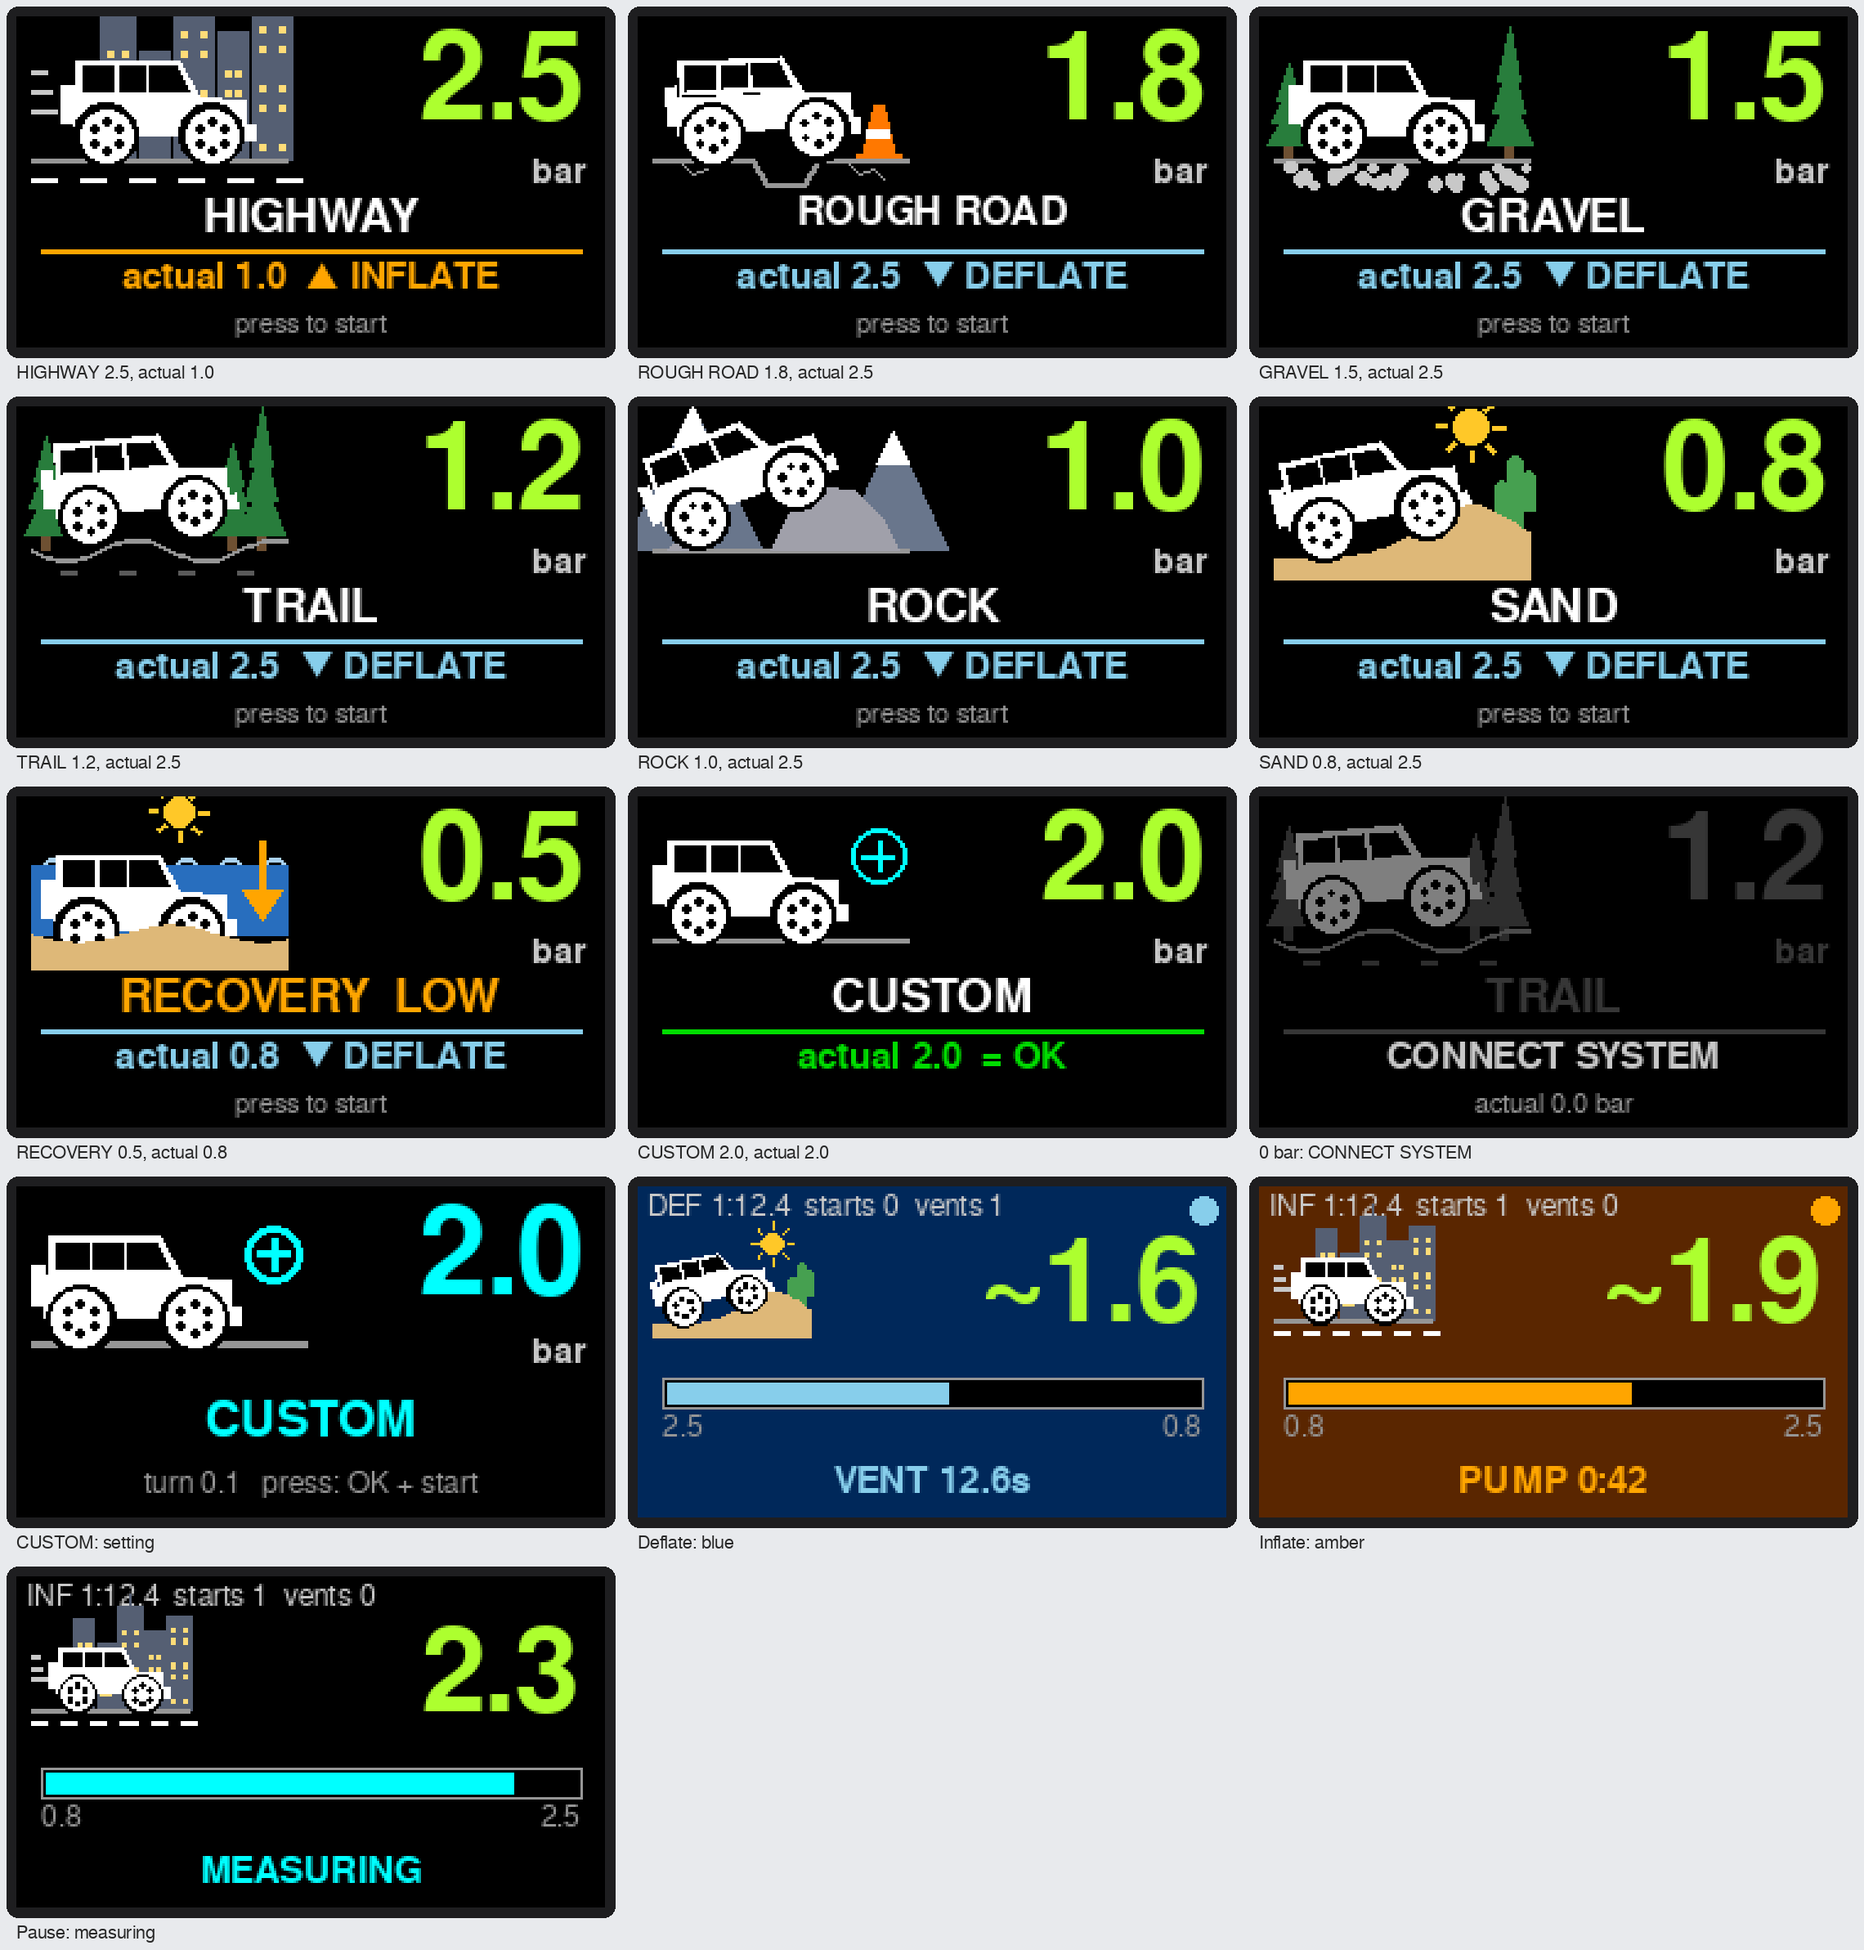
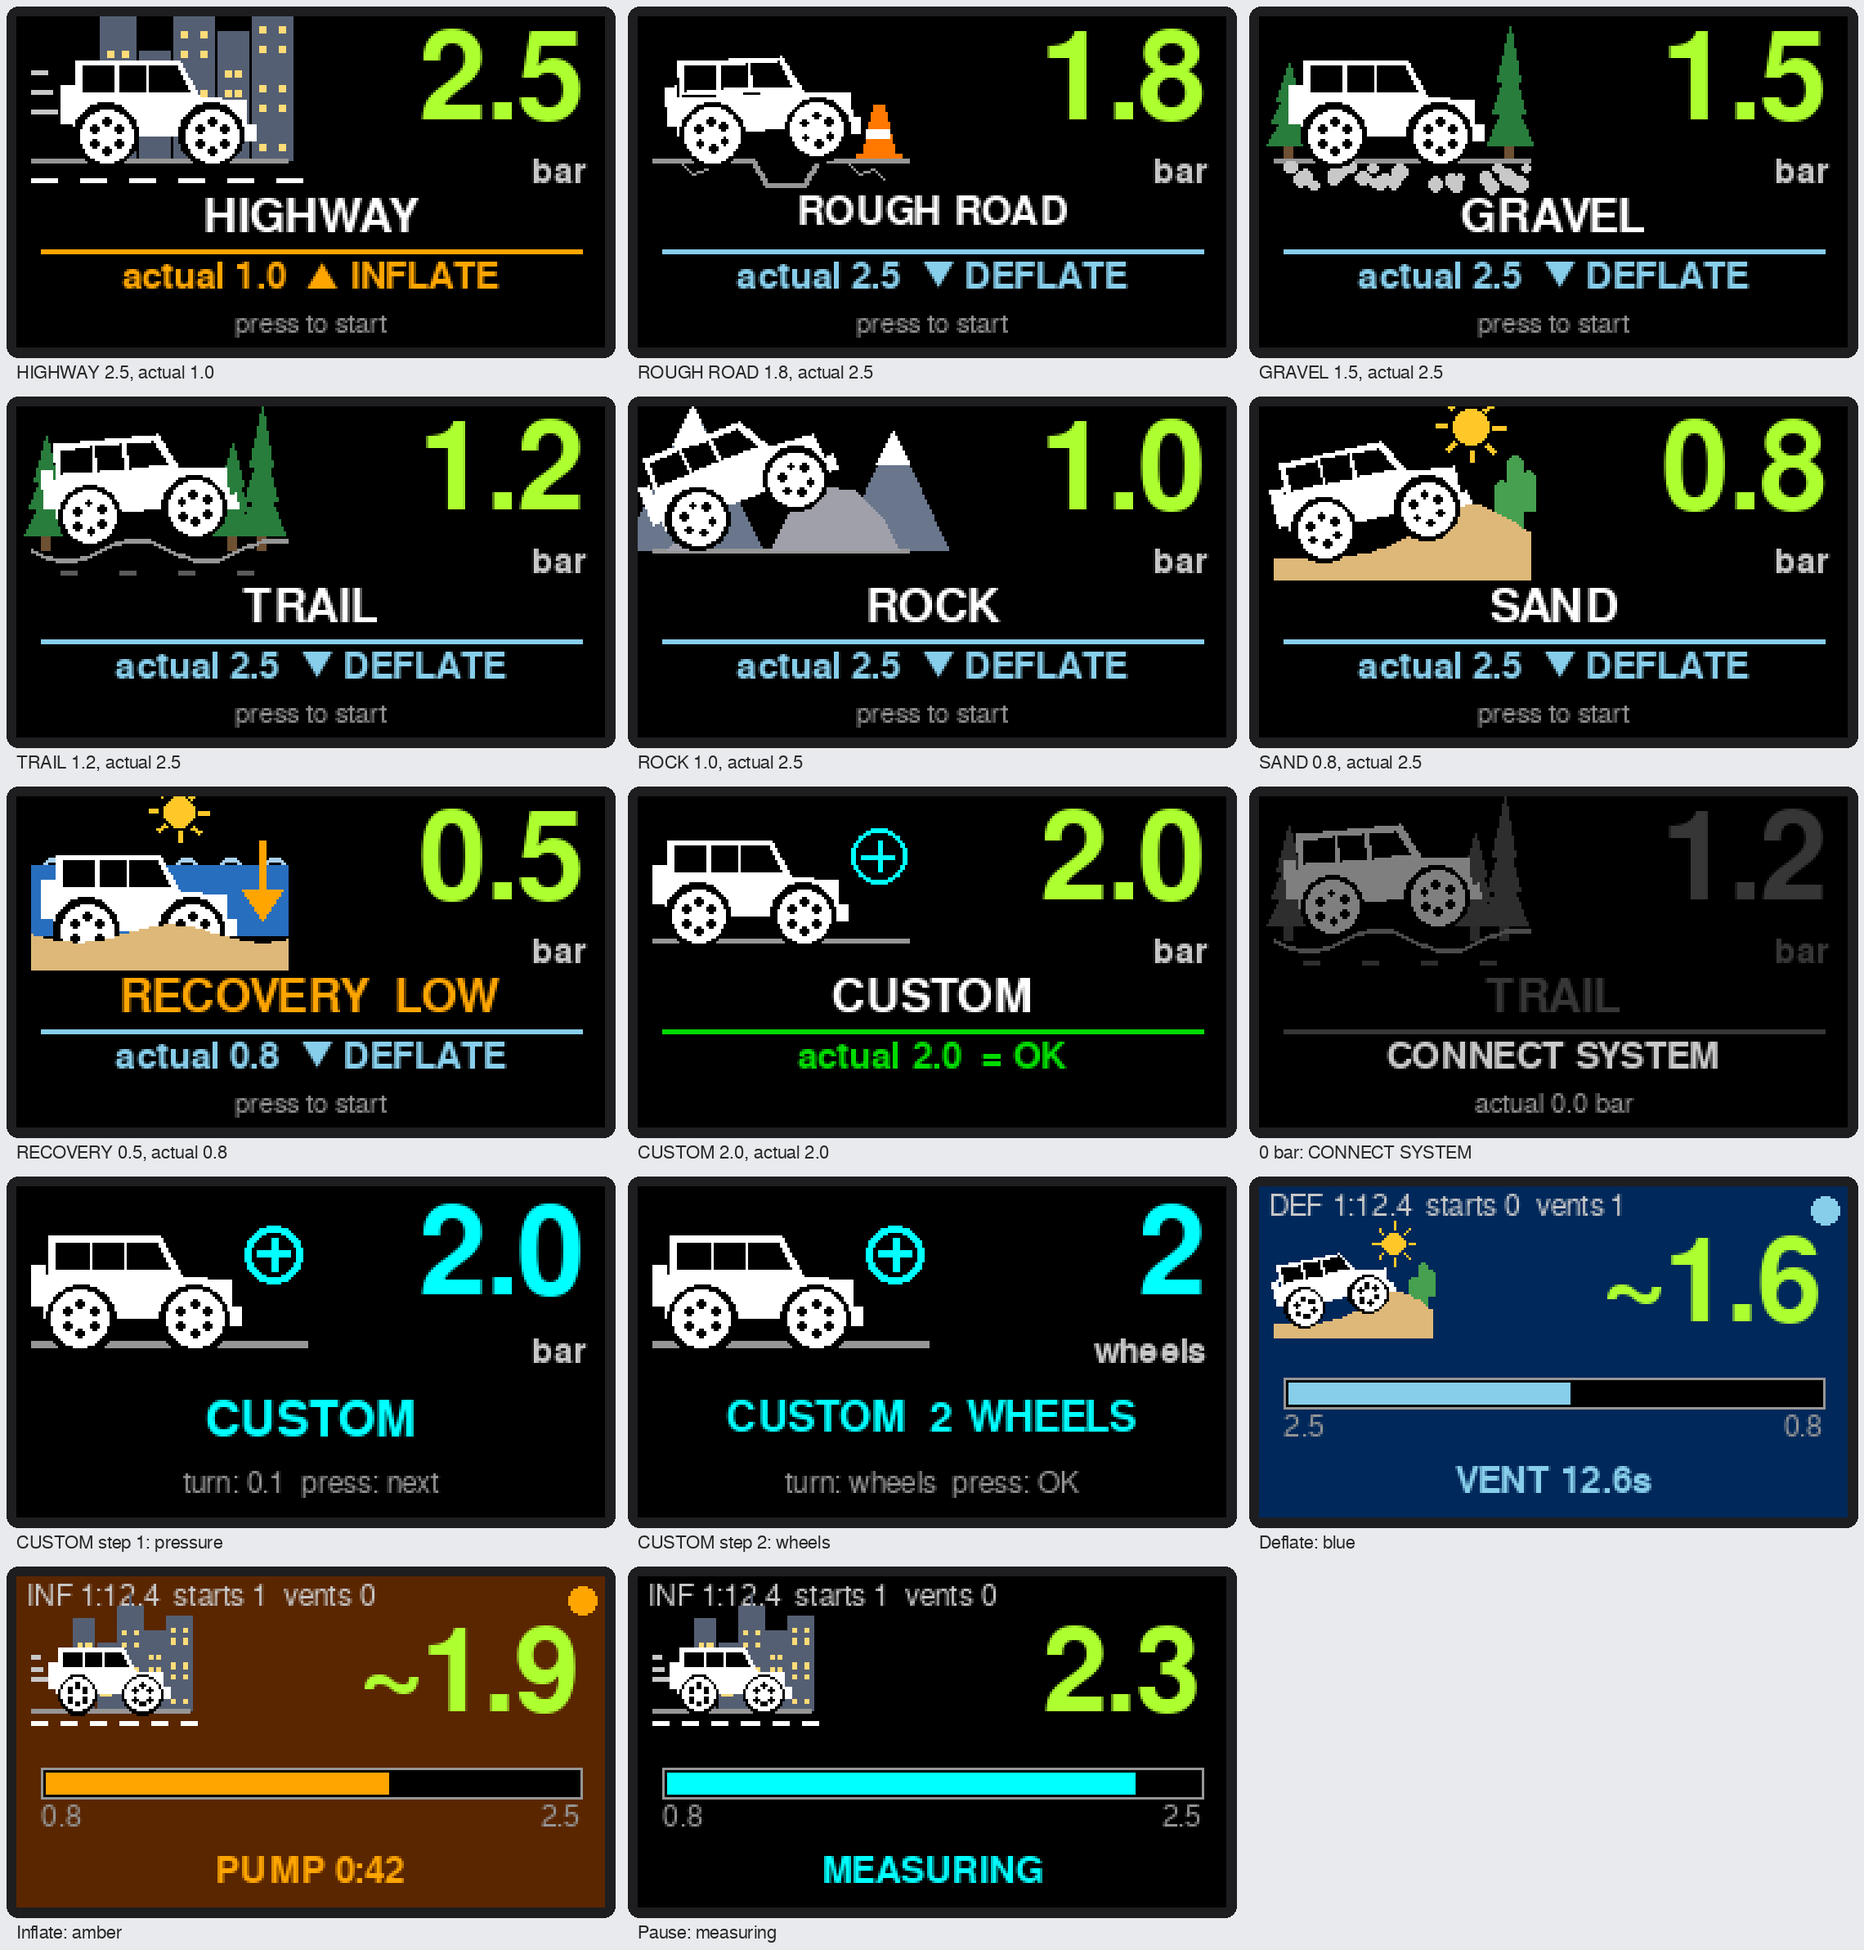
Screens: CUSTOM wheel step in mock-ups, menu scheme updated, storyboard page; stale run-fill sheet removed
Claude-Session: https://claude.ai/code/session_018z5LvCZ9NFya6WZW91qW8w

Changed region(s): [[0.0, 0.5895, 0.9965, 1.0], [0.0934, 0.7447, 0.2491, 0.7757]]

diff --git a/docs/screen/storyboard.html b/docs/screen/storyboard.html
@@ -1,0 +1,45 @@
+<title>DinMeter Screen Storyboard</title>
+<meta name="claude:viewport-fit-sides" content="cover">
+<link rel="stylesheet" href="https://fonts.googleapis.com/css2?family=Barlow+Condensed:wght@600;700&family=Inter:wght@400;500;600&display=swap">
+<style>
+:root{--bg:#eef0ec;--fg:#1d2321;--muted:#5d6763;--line:#cfd5d1;--card:#fff;--accent:#e8613a}
+@media (prefers-color-scheme: dark){:root:not([data-theme="light"]){--bg:#141816;--fg:#e6ebe8;--muted:#98a39e;--line:#2c3330;--card:#1c211f;--accent:#ff7a50;color-scheme:dark}}
+:root[data-theme="dark"]{--bg:#141816;--fg:#e6ebe8;--muted:#98a39e;--line:#2c3330;--card:#1c211f;--accent:#ff7a50;color-scheme:dark}
+body{background:var(--bg);color:var(--fg);font:15px/1.5 Inter,system-ui,sans-serif}
+.wrap{max-width:1180px;margin:0 auto;padding-block:28px 48px;padding-left:max(16px,env(safe-area-inset-left,0px));padding-right:max(16px,env(safe-area-inset-right,0px))}
+h1{font:700 clamp(30px,5vw,44px)/1.05 "Barlow Condensed",system-ui,sans-serif;margin:0 0 6px}
+h2{font:700 26px/1.1 "Barlow Condensed",system-ui,sans-serif;margin:34px 0 6px;text-wrap:balance}
+p{max-width:72ch;margin:0 0 14px;color:var(--muted)}
+figure{margin:0 0 10px;background:var(--card);border:1px solid var(--line);border-radius:10px;padding:10px}
+figure img{display:block;width:100%;height:auto;border-radius:6px}
+figcaption{font-size:13px;color:var(--muted);margin-top:6px}
+.two{display:grid;grid-template-columns:repeat(auto-fit,minmax(280px,1fr));gap:14px}
+.two>*{min-width:0}
+b{color:var(--fg)}
+</style>
+<div class="wrap">
+<h1>DinMeter: экраны</h1>
+<p>Состояние на 19.11.2026, все прошивки. Макеты нарисованы скриптом в масштабе экрана 240×135; на настоящем DinMeter ещё не проверены.</p>
+
+<h2>Заставка</h2>
+<p>1,6 с после включения, нажатие пропускает. VOLKOV AIR, машинка переезжает кочки.</p>
+<div class="two">
+<figure><img src="splash.gif" alt="Заставка VOLKOV AIR, анимация"><figcaption>анимация</figcaption></figure>
+<figure><img src="splash_frames.png" alt="Три кадра заставки"><figcaption>кадры</figcaption></figure>
+</div>
+
+<h2>Режимы, работа, CUSTOM</h2>
+<p>Поворот ручки листает режимы. Строка <b>actual</b> показывает текущее давление и что будет: ▲ INFLATE, ▼ DEFLATE или = OK. При 0 bar всё серое и CONNECT SYSTEM. CUSTOM: шаг 1 давление по 0,1, шаг 2 число колёс 1-4. Во время работы фон янтарный (качает) или синий (спускает).</p>
+<figure><img src="final_landscape.png" alt="Экраны в горизонтальном положении"><figcaption>горизонтально</figcaption></figure>
+<figure><img src="final_portrait.png" alt="Экраны в вертикальном положении"><figcaption>вертикально</figcaption></figure>
+
+<h2>Направление на главном экране</h2>
+<div class="two">
+<figure><img src="idle_dir_landscape.png" alt="INFLATE, DEFLATE, OK горизонтально"><figcaption>горизонтально</figcaption></figure>
+<figure><img src="idle_dir_portrait.png" alt="INFLATE, DEFLATE, OK вертикально"><figcaption>вертикально</figcaption></figure>
+</div>
+
+<h2>Управление и меню</h2>
+<p>Старт в два нажатия за 3 с, удержание 2 с открывает меню, внизу каждого экрана подсказка.</p>
+<figure><img src="menu.png" alt="Схема управления и меню"><figcaption>схема меню</figcaption></figure>
+</div>

diff --git a/docs/screen/menu.html b/docs/screen/menu.html
@@ -34,7 +34,7 @@ code{font:12px Menlo,Consolas,monospace;background:#eef0f2;color:#333;border-rad
 </div>
 <div class="flow" style="margin-top:-14px;margin-left:300px">
  <div class="a" style="min-width:110px"><span>↓</span>нажатие на CUSTOM</div>
- <div class="b cust"><b>CUSTOM</b>поворот: шаг 0,1 bar<br>нажатие: OK → ARMED<br>hold: отмена<br><code>turn: 0.1  press: OK  hold: cancel</code></div>
+ <div class="b cust"><b>CUSTOM</b>1) поворот: шаг 0,1 bar, нажатие: дальше<br>2) поворот: колёс 1-4, нажатие: OK → ARMED<br>hold: шаг назад / отмена<br><code>turn: 0.1  press: next  hold: cancel</code><br><code>turn: wheels  press: OK  hold: back</code></div>
  <div class="a" style="min-width:110px"><span>↓</span>удержание 2 с<br>полоска HOLD FOR MENU<br>(не в работе)</div>
  <div class="b dark"><b>МЕНЮ ↓</b>поворот: листать<br>нажатие: выбрать<br>hold: назад<br><code>turn: scroll  press: select  hold: back</code></div>
 </div>
@@ -53,7 +53,7 @@ code{font:12px Menlo,Consolas,monospace;background:#eef0f2;color:#333;border-rad
  <div class="mi">RESET LEARNING</div><div class="md">Нажать 2 раза за 3 с (первое нажатие: PRESS AGAIN). Сбрасывает обучение подкачки и спуска, калибровка по манометру остаётся.</div>
  <div class="mi">WIFI: UPDATE + LOG</div><div class="md">DinMeter поднимает Wi-Fi <b>WranglerAir</b>, пароль <b>jeepjeep</b>. В браузере 192.168.4.1: залить прошивку .bin, скачать лог CSV, очистить лог. Компрессор и клапан выключены. <code>hold: exit</code>.</div>
  <div class="mi">VERSION</div><div class="md">Версия, шина и объём воздуха, выученные поправки подкачки, τ спуска. <code>press: back</code>.</div>
- <div class="mi">HOURS</div><div class="md">Моточасы ч:мм: компрессор всего, с последней чистки фильтров, клапан. <code>press: back  hold: filters cleaned</code>, затем подтверждение <code>hold 2 s: reset service  press: back</code>. После 10 ч с чистки на главном экране оранжевое CLEAN FILTERS (не блокирует).</div>
+ <div class="mi">HOURS</div><div class="md">Моточасы ч:мм: compressor total, since cleaning (сбрасывается при чистке фильтров), клапан. <code>press: back  hold: filters cleaned</code>, затем подтверждение <code>hold 2 s: reset service  press: back</code>. После 10 ч с чистки на главном экране оранжевое CLEAN FILTERS (не блокирует).</div>
  <div class="mi">EXIT</div><div class="md">Назад на главный экран.</div>
 </div>
 </div>

diff --git a/docs/screen/sim2.py b/docs/screen/sim2.py
@@ -188,32 +188,37 @@ def tw(d, t, f):
     return d.textlength(t, font=f)
 
 
-def idle(name, bar, psi=False, edit=False, portrait=False):
+def idle(name, bar, psi=False, edit=False, portrait=False, wheels=None):
+    """wheels: CUSTOM second step, number of wheels on the line (1-4)"""
     W, H = (135, 240) if portrait else (240, 135)
     im = Image.new("RGB", (W, H)); d = ImageDraw.Draw(im)
     val = f"{bar * 14.5038:.0f}" if psi else f"{bar:.1f}"
     unit = "psi" if psi else "bar"
+    iname = name
+    if wheels:
+        val, unit = str(wheels), ("wheel" if wheels == 1 else "wheels")
+        name = name + (f" x{wheels}" if portrait else f"  {wheels} WHEEL" + ("" if wheels == 1 else "S"))
     low = bar < 0.8
     numc = CYAN if edit else GY
     namec = CYAN if edit else (ORANGE if low else WHITE)
     if not portrait:
-        icon(d, name, 6, 8, 112)                                    # 112 x 69
+        icon(d, iname, 6, 8, 112)                                    # 112 x 69
         fb = FB(50); d.text((W - 8 - tw(d, val, fb), 4), val, font=fb, fill=numc)
         fu = FB(14); d.text((W - 8 - tw(d, unit, fu), 60), unit, font=fu, fill=LGREY)
         fn = FB(20 if len(name) < 9 else 17)
         t = name + ("  LOW" if low and not edit else "")
         d.text(((W - tw(d, t, fn)) / 2, 86), t, font=fn, fill=namec)
-        h = "turn 0.1   press: OK + start" if edit else "press: start"
+        h = ("turn: wheels  press: OK" if wheels else "turn: 0.1  press: next") if edit else "press: start"
         fh = FS(12); d.text(((W - tw(d, h, fh)) / 2, 115), h, font=fh, fill=GREY)
     else:
-        icon(d, name, 6, 8, 123)                                    # 123 x 76
+        icon(d, iname, 6, 8, 123)                                    # 123 x 76
         fn = FB(17 if len(name) < 9 else 14)
         d.text(((W - tw(d, name, fn)) / 2, 92), name, font=fn, fill=namec)
         fb = FB(52); d.text(((W - tw(d, val, fb)) / 2, 116), val, font=fb, fill=numc)
         fu = FB(14); d.text(((W - tw(d, unit, fu)) / 2, 172), unit, font=fu, fill=LGREY)
         if low and not edit:
             fl = FB(14); d.text(((W - tw(d, "LOW", fl)) / 2, 192), "LOW", font=fl, fill=ORANGE)
-        h = "turn 0.1, press OK" if edit else "press: start"
+        h = ("turn: wheels, press OK" if wheels else "turn 0.1, press: next") if edit else "press: start"
         fh = FS(12); d.text(((W - tw(d, h, fh)) / 2, 218), h, font=fh, fill=GREY)
     return im
 

diff --git a/docs/screen/screen_mockup_final.py b/docs/screen/screen_mockup_final.py
@@ -8,7 +8,8 @@ P = [("HIGHWAY", 2.5, 1.0), ("ROUGH ROAD", 1.8, 2.5), ("GRAVEL", 1.5, 2.5), ("TR
 for portrait, cols, fn in ((False, 3, "final_landscape.png"), (True, 6, "final_portrait.png")):
     T = [m.frame(n.idle2(a, t, p, portrait=portrait), f"{a} {t:.1f}, actual {p:.1f}") for a, t, p in P]
     T += [m.frame(n.idle2("TRAIL", 1.2, 0.0, portrait=portrait), "0 bar: CONNECT SYSTEM"),
-          m.frame(m.idle("CUSTOM", 2.0, edit=True, portrait=portrait), "CUSTOM: setting"),
+          m.frame(m.idle("CUSTOM", 2.0, edit=True, portrait=portrait), "CUSTOM step 1: pressure"),
+          m.frame(m.idle("CUSTOM", 2.0, edit=True, portrait=portrait, wheels=2), "CUSTOM step 2: wheels"),
           m.frame(m.run("SAND", 2.5, 0.8, 1.6, "VENT", portrait=portrait, starts=0, vents=1), "Deflate: blue"),
           m.frame(m.run("HIGHWAY", 0.8, 2.5, 1.9, "PUMP", portrait=portrait), "Inflate: amber"),
           m.frame(m.run("HIGHWAY", 0.8, 2.5, 2.3, "MEASURE", portrait=portrait), "Pause: measuring")]
